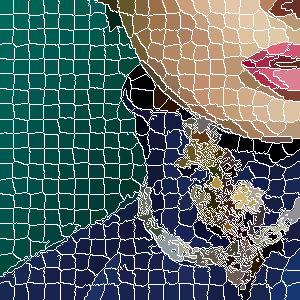
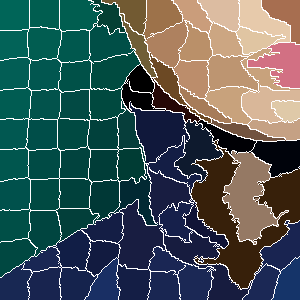
SLIC.

diff --git a/gradient_ascent_based/SLIC.py b/gradient_ascent_based/SLIC.py
@@ -167,11 +167,11 @@ class SLIC():
             if stop: break
 
     def __connect(self):
-        label = self.label
+        label = self.label.copy()
         height, width = self.height, self.width
 
         cnt = 0
-        vis = np.zeros(label.shape)
+        vis = np.zeros(label.shape, dtype=np.int32)
         dx = [-1, 1, 0, 0]
         dy = [0, 0, 1, -1]
 
@@ -180,28 +180,29 @@ class SLIC():
                 if not vis[i][j]:
                     cnt += 1
                     Q = [(i, j)]
+                    vis[i][j]=cnt
                     while len(Q):
                         x, y = Q.pop(0)
-                        vis[x][y] = cnt
                         for k in range(4):
                             xx = x + dx[k]
                             yy = y + dy[k]
-                            if 0 <= xx and xx < width and 0 <= yy and yy < height  and vis[xx][yy] != cnt:
-                                vis[xx][yy] = cnt
+                            if 0 <= xx and xx < width and 0 <= yy and yy < height  and not vis[xx][yy] and label[xx][yy]==label[i][j]:
+                                vis[xx][yy]=cnt
                                 Q.append((xx, yy))
-        self.label = vis
+        self.maxCount=cnt
+        self.label2 = vis
 
     def __enforceConnect2(self):
-        N = self.clusterNumber + 1
-        label = self.label
-        threshold = self.superPixelLength ** 2 / 4
+        N = self.maxCount
+        label = self.label2
+        threshold = self.superPixelLength ** 2 / 2
 
-        count = np.zeros(N)
+        count = np.zeros(N+1, dtype=np.int32)
         height, width = self.height, self.width
         for i in range(height):
             for j in range(width):
                 count[label[i][j]] += 1
-        p = np.arange(N)
+        p = np.arange(N+1)
 
         def find(x):
             if p[x] == x:
@@ -216,7 +217,6 @@ class SLIC():
             if x != y:
                 p[x] = y
                 count[x] += count[y]
-                print(x,y)
 
         for i in range(height - 1):
             for j in range(width - 1):
@@ -231,7 +231,15 @@ class SLIC():
         for i in range(height):
             for j in range(width):
                 label[i][j] = find(label[i][j])
-        self.label = label
+        self.label2 = label
+
+        color=np.zeros(N+1)
+        for i in range(height):
+            for j in range(width):
+                color[label[i][j]]=self.label[i][j]
+        for i in range(height):
+            for j in range(width):
+                self.label[i][j]=color[label[i][j]]
 
     def __imageSplit(self):
         """
@@ -273,7 +281,7 @@ class SLIC():
 
 if __name__ == "__main__":
     image = imageLoad()
-    slic = SLIC(image, k=400, iterNumber=5)
+    slic = SLIC(image, k=100, iterNumber=5)
     slic.run()
     slic.imageSave("../result/cloth_SLIC.png")
     # slic.boundarySave("../result/cloth_SLIC_boundary.png")

diff --git a/gradient_ascent_based/README.md b/gradient_ascent_based/README.md
@@ -138,20 +138,20 @@ In the 3x3 domain of every center:
 
 Because of the characteristics of clustering process, it is not guaranteed that every class can be continuous in XY space.
 
-
-
-Thus 
-
-- Count the Label array.
+- Count all connected graphs.
 
 - Initialize the threshold.
 
-- Merge small block into right block.
+- Merge small block into nearby block.
 
 ### Draw the boundary
 <a id="1.3.3"/>
 
-Obviously, 
+Obviously, the points with different labels in four directions are the boundary points.
+
+Because of traversal method of array, we just need to look at the points on the right and below.
+
+Further, if left or above is marked, we can skip this point.
 
 ## Result
 <a id="1.4"/>
